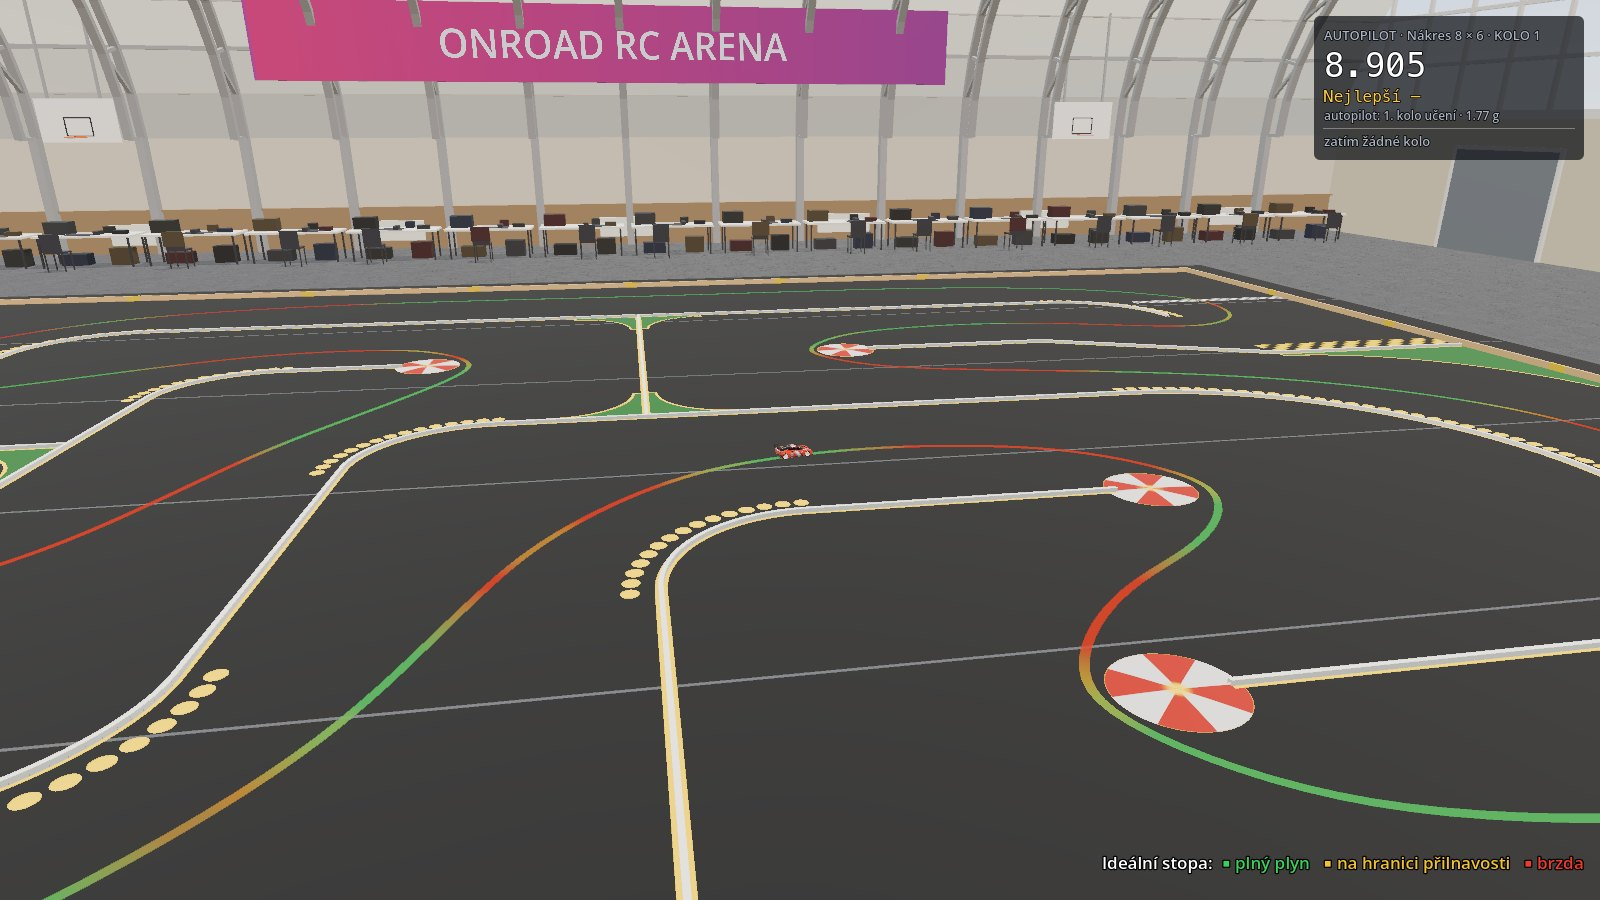
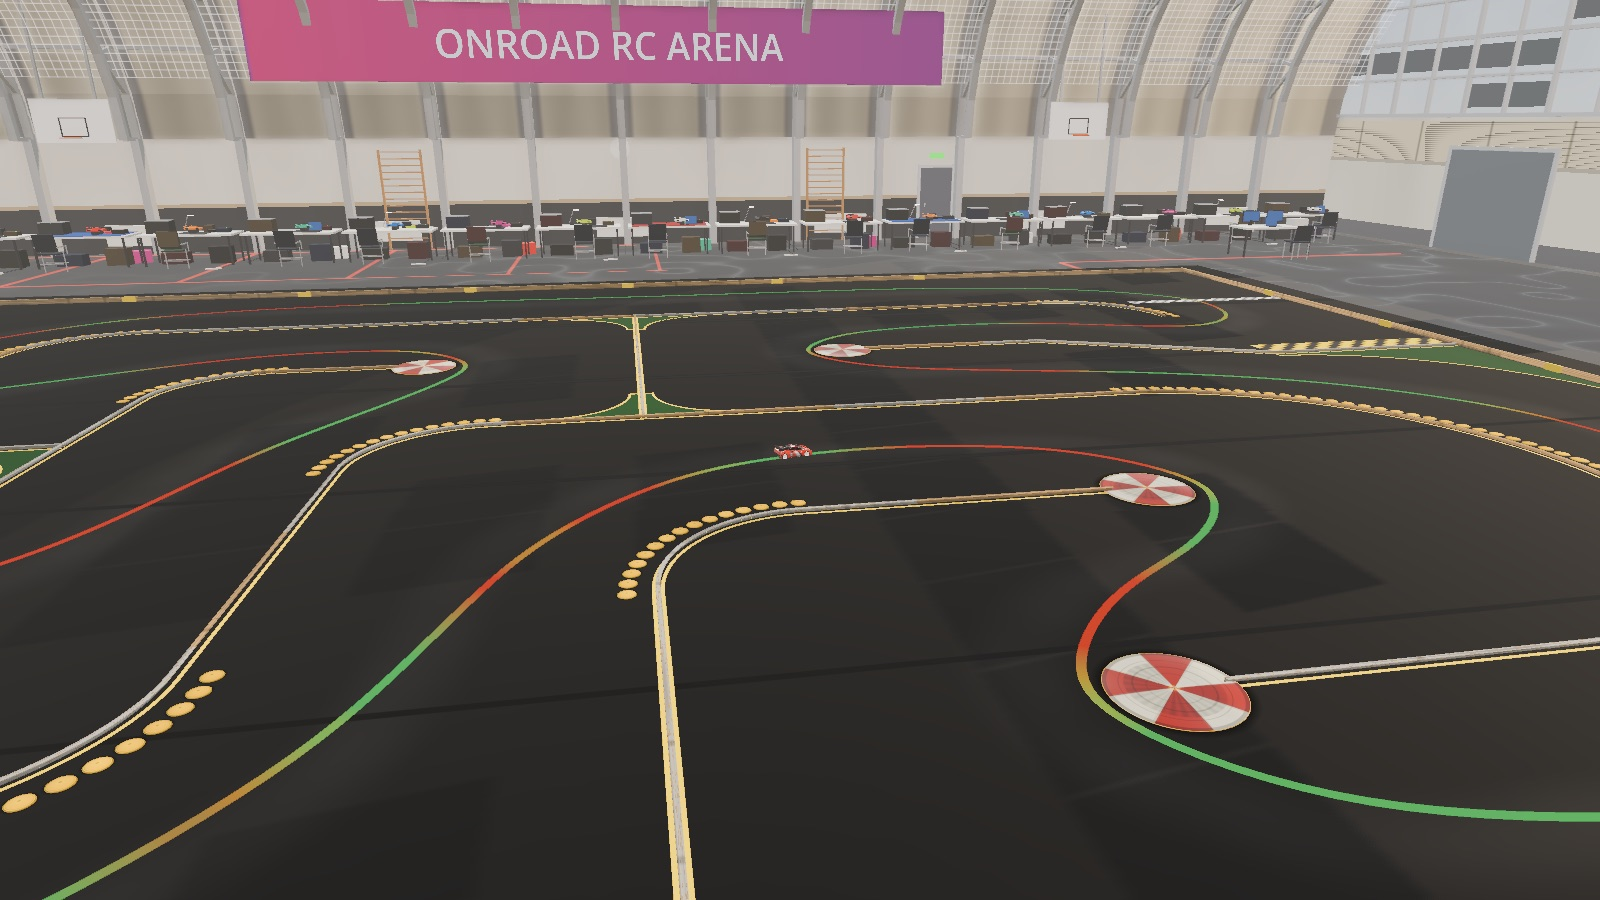
Verze 0.56: nové snímky hal a venkovních tratí, novinky od 0.54
Web odkazuje na verzi 0.56, časy autopilota Rychvald 15.58 a Jedovnice 13.45 s, dvě nové karty
v seznamu funkcí (hala a venkovní areály podle fotek, poklice vysoké 1,5 cm). Obnovené snímky
hlavní, ideální stopa, Nákres shora, Svitavy a Blansko; přibyly snímky haly z pódia, za autem,
terč zblízka, Svitavy z tribuny a Blansko za autem.

diff --git a/index.html b/index.html
@@ -188,15 +188,15 @@ footer .wrap { display: flex; flex-wrap: wrap; gap: 8px 24px; justify-content: s
           <a class="btn-line" id="download-win" href="https://github.com/ibb-jile/onroad-rc-simulator/releases/latest/download/Onroad-RC-Simulator-Windows.zip"><span lang="cs">Windows (experimentální)</span><span lang="en">Windows (experimental)</span></a>
           <a href="#install"><span lang="cs">Jak nainstalovat</span><span lang="en">How to install</span></a>
         </div>
-        <p class="facts"><span lang="cs">Verze 0.54 · macOS 13 a novější · Mac s čipem Apple (M1 a novější) · zip 69 MB</span><span lang="en">Version 0.54 · macOS 13 or later · Mac with Apple silicon (M1 or later) · 69 MB zip</span></p>
+        <p class="facts"><span lang="cs">Verze 0.56 · macOS 13 a novější · Mac s čipem Apple (M1 a novější) · zip 69 MB</span><span lang="en">Version 0.56 · macOS 13 or later · Mac with Apple silicon (M1 or later) · 69 MB zip</span></p>
         <p class="facts"><span lang="cs">Windows 10 a 11 (64bit) · první sestavení, na skutečném PC zatím nevyzkoušené · zip 52 MB</span><span lang="en">Windows 10 and 11 (64-bit) · first build, not yet tried on a real PC · 52 MB zip</span></p>
       </div>
       <aside class="board" aria-label="Lap times">
         <h3><span lang="cs">Autopilot · nejlepší kolo</span><span lang="en">Autopilot · best lap</span></h3>
         <table>
           <tr><td><span lang="cs">Nákres 8 × 6</span><span lang="en">Sketch 8 × 6</span></td><td class="t">13.83<small>s</small></td></tr>
-          <tr><td>Rychvald</td><td class="t">15.59<small>s</small></td></tr>
-          <tr><td>Jedovnice</td><td class="t">13.53<small>s</small></td></tr>
+          <tr><td>Rychvald</td><td class="t">15.58<small>s</small></td></tr>
+          <tr><td>Jedovnice</td><td class="t">13.45<small>s</small></td></tr>
           <tr><td><span lang="cs">Svitavy (venkovní)</span><span lang="en">Svitavy (outdoor)</span></td><td class="t">17.99<small>s</small></td></tr>
           <tr><td><span lang="cs">Blansko (venkovní)</span><span lang="en">Blansko (outdoor)</span></td><td class="t">12.33<small>s</small></td></tr>
         </table>
@@ -242,6 +242,14 @@ footer .wrap { display: flex; flex-wrap: wrap; gap: 8px 24px; justify-content: s
           <p><span lang="cs">Čtyři kobercové tratě <span class="unit">26.4 × 19.8 m</span> s dělicími pásy, poklicemi a terči: Nákres 8 × 6, Jedovnice a Rychvald ve dvou podobách, s mantinely nebo s nízkými pásy, které jdou přejet. Časomíra měří kola na milisekundy a kolo se zkrácenou tratí nepočítá. K tomu dvě venkovní asfaltové dráhy s tribunou řidičů: Svitavy <span class="unit">46 × 62 m</span> a Blansko <span class="unit">57 × 23 m</span>. Na Svitavách je vybraná trasa vytyčená řadami puklic přes nepoužívané pruhy, takže je z tribuny i za autem jasné, kudy se jede.</span><span lang="en">Four carpet tracks <span class="unit">26.4 × 19.8 m</span> with dividers, dots and apex markers: Sketch 8 × 6, Jedovnice and Rychvald in two versions, with barriers or with low strips you can drive over. Lap timing to the millisecond, and a lap with a cut track does not count. Plus two outdoor asphalt tracks with a driver stand: Svitavy <span class="unit">46 × 62 m</span> and Blansko <span class="unit">57 × 23 m</span>. At Svitavy the chosen route is marked out by rows of dots across the unused lanes, so it is clear where to drive both from the driver stand and from behind the car.</span></p>
         </div>
         <div>
+          <h3><span lang="cs">Hala podle fotek</span><span lang="en">A hall from photos</span></h3>
+          <p><span lang="cs">Černý koberec se spoji z lesklé pásky, slunce prosvítá proskleným čelem haly, dřevěná tribuna řidičů a depo se stoly a bednami. Terče a poklice jsou plastické, poklice vysoké 1,5 cm; vidět jsou i zblízka.</span><span lang="en">Black carpet with glossy tape seams, the sun shining through the glazed end wall of the hall, a wooden driver stand and a pit area with tables and boxes. Apex markers and dots are three-dimensional, the dots 1.5 cm high; they hold up even close to the camera.</span></p>
+        </div>
+        <div>
+          <h3><span lang="cs">Venkovní areály podle fotek</span><span lang="en">Outdoor venues from photos</span></h3>
+          <p><span lang="cs">Okolí Svitav a Blanska podle fotek skutečných areálů: stromy z listových karet, asfalt se zrnem a záplatami, ošlapaný nátěr, tráva, plot, stožáry, zázemí závodníků, tribuny a kopce na obzoru.</span><span lang="en">The surroundings of Svitavy and Blansko follow how the real venues look in photos: trees built from leaf cards, grainy asphalt with patches, a worn paint coat, grass, fences, floodlight masts, the racers' pit area, the stands and hills on the horizon.</span></p>
+        </div>
+        <div>
           <h3><span lang="cs">Trénink</span><span lang="en">Practice tools</span></h3>
           <p><span lang="cs">Duch tvého nejlepšího kola, ideální stopa obarvená podle plynu a brzdy, autopilot s tvým setupem a soupeř, který se učí hranici přilnavosti. Traťový komisař tě po nehodě vrátí na trať. Soupeřů může jet až 9 najednou, každý se silou 1–10 (tempo od 75 do 100 % naučeného autopilota); sílu nastavíš průměrem a rozptylem, soupeři se předjíždějí a vnímají všechna auta.</span><span lang="en">A ghost of your best lap, a racing line colored by throttle and brake, an autopilot with your setup and an opponent that learns the grip limit. A track marshal puts you back on track after a crash. Up to 9 opponents can race at once, each with a strength of 1–10 (pace from 75 to 100 % of the learned autopilot); you set the strength by an average and a spread, and the opponents overtake each other and see all the cars.</span></p>
         </div>
@@ -262,12 +270,28 @@ footer .wrap { display: flex; flex-wrap: wrap; gap: 8px 24px; justify-content: s
           <figcaption><span lang="cs">Široký pohled z pódia řidičů: autopilot jede po ideální stopě mezi pásy, poklicemi a terči.</span><span lang="en">A wide view from the driver stand: the autopilot follows the racing line between dividers, dots and apex markers.</span></figcaption>
         </figure>
         <figure>
+          <img src="img/hall-stand.jpg" width="1600" height="900" loading="lazy" alt="Wide view from the driver stand over the black carpet track in a sports hall with the glazed end wall and the pit area">
+          <figcaption><span lang="cs">Hala z pódia řidičů: černý koberec, prosklené čelo, depo se stoly a plastické terče.</span><span lang="en">The hall from the driver stand: black carpet, the glazed end wall, the pit area with tables and three-dimensional apex markers.</span></figcaption>
+        </figure>
+        <figure>
+          <img src="img/hall-chase.jpg" width="1600" height="900" loading="lazy" alt="Red touring car seen from behind on the black carpet in the hall, with the dots along a divider and the wooden stand on the right">
+          <figcaption><span lang="cs">Za autem v hale: poklice podél dělicího pásu, dřevěná tribuna a klenutá střecha.</span><span lang="en">Behind the car in the hall: dots along a divider, the wooden stand and the vaulted roof.</span></figcaption>
+        </figure>
+        <figure>
+          <img src="img/hall-cone.jpg" width="1600" height="900" loading="lazy" alt="Close-up of a red-and-white apex marker with a divider and a yellow line on black carpet in the hall">
+          <figcaption><span lang="cs">Terč zblízka: plastický terč s dělicím pásem a žlutou linkou.</span><span lang="en">An apex marker up close: a three-dimensional marker with a divider and a yellow line.</span></figcaption>
+        </figure>
+        <figure>
           <img src="img/track-top.jpg" width="1228" height="900" loading="lazy" alt="Top view of the Sketch 8 × 6 carpet track with dividers, dots and apex markers">
           <figcaption><span lang="cs">Trať Nákres 8 × 6 shora: dělicí pásy, poklice a terče.</span><span lang="en">The Sketch 8 × 6 track from above: dividers, dots and apex markers.</span></figcaption>
         </figure>
         <figure>
           <img src="img/svitavy-chase.jpg" width="1600" height="900" loading="lazy" alt="Red touring car on the outdoor asphalt track Svitavy with a row of yellow dots marking the route, green painted areas and trees around">
           <figcaption><span lang="cs">Venkovní dráha Svitavy: trasa vytyčená řadami žlutých puklic, natřené plochy mimo trať a stromy kolem.</span><span lang="en">The outdoor track Svitavy: the route marked out by rows of yellow dots, painted areas off the track and trees around.</span></figcaption>
+        </figure>
+        <figure>
+          <img src="img/svitavy-stand.jpg" width="1600" height="900" loading="lazy" alt="View from the driver stand at Svitavy over the green painted areas and the asphalt track with trees, floodlight mast and parked vehicles behind the fence">
+          <figcaption><span lang="cs">Svitavy z tribuny: asfalt, zelený nátěr, plot, stožár a zázemí závodníků za mantinelem.</span><span lang="en">Svitavy from the driver stand: asphalt, green paint, the fence, a floodlight mast and the racers' vehicles behind the barrier.</span></figcaption>
         </figure>
         <figure>
           <img src="img/svitavy-top.jpg" width="1600" height="900" loading="lazy" alt="Top view of the outdoor track Svitavy with the finish line, the starting grid and dotted routes marked by yellow dots">
@@ -280,6 +304,10 @@ footer .wrap { display: flex; flex-wrap: wrap; gap: 8px 24px; justify-content: s
         <figure>
           <img src="img/blansko-stand.jpg" width="1600" height="900" loading="lazy" alt="View from the covered driver platform on the upper floor in Blansko over the track, the starting grid and the long straight">
           <figcaption><span lang="cs">Blansko z tribuny: řidiči stojí na kryté plošině v patře, 4,5 m nad dráhou.</span><span lang="en">Blansko from the driver stand: drivers stand on a covered platform on the upper floor, 4.5 m above the track.</span></figcaption>
+        </figure>
+        <figure>
+          <img src="img/blansko-chase.jpg" width="1600" height="900" loading="lazy" alt="Red touring car seen from behind on the asphalt track Blansko with blue painted areas, grass, a fence and trees">
+          <figcaption><span lang="cs">Blansko za autem: modrý nátěr, trávu u mantinelu, plot a les za areálem.</span><span lang="en">Blansko behind the car: blue paint, grass by the barrier, a fence and woods behind the venue.</span></figcaption>
         </figure>
         <figure>
           <img src="img/blansko-tribuna.jpg" width="1600" height="900" loading="lazy" alt="Two-storey driver stand building in Blansko with a covered upper platform and an outside staircase">

diff --git a/src/page.html b/src/page.html
@@ -182,15 +182,15 @@ footer .wrap { display: flex; flex-wrap: wrap; gap: 8px 24px; justify-content: s
           <a class="btn-line" id="download-win" href="https://github.com/ibb-jile/onroad-rc-simulator/releases/latest/download/Onroad-RC-Simulator-Windows.zip"><span lang="cs">Windows (experimentální)</span><span lang="en">Windows (experimental)</span></a>
           <a href="#install"><span lang="cs">Jak nainstalovat</span><span lang="en">How to install</span></a>
         </div>
-        <p class="facts"><span lang="cs">Verze 0.54 · macOS 13 a novější · Mac s čipem Apple (M1 a novější) · zip 69 MB</span><span lang="en">Version 0.54 · macOS 13 or later · Mac with Apple silicon (M1 or later) · 69 MB zip</span></p>
+        <p class="facts"><span lang="cs">Verze 0.56 · macOS 13 a novější · Mac s čipem Apple (M1 a novější) · zip 69 MB</span><span lang="en">Version 0.56 · macOS 13 or later · Mac with Apple silicon (M1 or later) · 69 MB zip</span></p>
         <p class="facts"><span lang="cs">Windows 10 a 11 (64bit) · první sestavení, na skutečném PC zatím nevyzkoušené · zip 52 MB</span><span lang="en">Windows 10 and 11 (64-bit) · first build, not yet tried on a real PC · 52 MB zip</span></p>
       </div>
       <aside class="board" aria-label="Lap times">
         <h3><span lang="cs">Autopilot · nejlepší kolo</span><span lang="en">Autopilot · best lap</span></h3>
         <table>
           <tr><td><span lang="cs">Nákres 8 × 6</span><span lang="en">Sketch 8 × 6</span></td><td class="t">13.83<small>s</small></td></tr>
-          <tr><td>Rychvald</td><td class="t">15.59<small>s</small></td></tr>
-          <tr><td>Jedovnice</td><td class="t">13.53<small>s</small></td></tr>
+          <tr><td>Rychvald</td><td class="t">15.58<small>s</small></td></tr>
+          <tr><td>Jedovnice</td><td class="t">13.45<small>s</small></td></tr>
           <tr><td><span lang="cs">Svitavy (venkovní)</span><span lang="en">Svitavy (outdoor)</span></td><td class="t">17.99<small>s</small></td></tr>
           <tr><td><span lang="cs">Blansko (venkovní)</span><span lang="en">Blansko (outdoor)</span></td><td class="t">12.33<small>s</small></td></tr>
         </table>
@@ -236,6 +236,14 @@ footer .wrap { display: flex; flex-wrap: wrap; gap: 8px 24px; justify-content: s
           <p><span lang="cs">Čtyři kobercové tratě <span class="unit">26.4 × 19.8 m</span> s dělicími pásy, poklicemi a terči: Nákres 8 × 6, Jedovnice a Rychvald ve dvou podobách, s mantinely nebo s nízkými pásy, které jdou přejet. Časomíra měří kola na milisekundy a kolo se zkrácenou tratí nepočítá. K tomu dvě venkovní asfaltové dráhy s tribunou řidičů: Svitavy <span class="unit">46 × 62 m</span> a Blansko <span class="unit">57 × 23 m</span>. Na Svitavách je vybraná trasa vytyčená řadami puklic přes nepoužívané pruhy, takže je z tribuny i za autem jasné, kudy se jede.</span><span lang="en">Four carpet tracks <span class="unit">26.4 × 19.8 m</span> with dividers, dots and apex markers: Sketch 8 × 6, Jedovnice and Rychvald in two versions, with barriers or with low strips you can drive over. Lap timing to the millisecond, and a lap with a cut track does not count. Plus two outdoor asphalt tracks with a driver stand: Svitavy <span class="unit">46 × 62 m</span> and Blansko <span class="unit">57 × 23 m</span>. At Svitavy the chosen route is marked out by rows of dots across the unused lanes, so it is clear where to drive both from the driver stand and from behind the car.</span></p>
         </div>
         <div>
+          <h3><span lang="cs">Hala podle fotek</span><span lang="en">A hall from photos</span></h3>
+          <p><span lang="cs">Černý koberec se spoji z lesklé pásky, slunce prosvítá proskleným čelem haly, dřevěná tribuna řidičů a depo se stoly a bednami. Terče a poklice jsou plastické, poklice vysoké 1,5 cm; vidět jsou i zblízka.</span><span lang="en">Black carpet with glossy tape seams, the sun shining through the glazed end wall of the hall, a wooden driver stand and a pit area with tables and boxes. Apex markers and dots are three-dimensional, the dots 1.5 cm high; they hold up even close to the camera.</span></p>
+        </div>
+        <div>
+          <h3><span lang="cs">Venkovní areály podle fotek</span><span lang="en">Outdoor venues from photos</span></h3>
+          <p><span lang="cs">Okolí Svitav a Blanska podle fotek skutečných areálů: stromy z listových karet, asfalt se zrnem a záplatami, ošlapaný nátěr, tráva, plot, stožáry, zázemí závodníků, tribuny a kopce na obzoru.</span><span lang="en">The surroundings of Svitavy and Blansko follow how the real venues look in photos: trees built from leaf cards, grainy asphalt with patches, a worn paint coat, grass, fences, floodlight masts, the racers' pit area, the stands and hills on the horizon.</span></p>
+        </div>
+        <div>
           <h3><span lang="cs">Trénink</span><span lang="en">Practice tools</span></h3>
           <p><span lang="cs">Duch tvého nejlepšího kola, ideální stopa obarvená podle plynu a brzdy, autopilot s tvým setupem a soupeř, který se učí hranici přilnavosti. Traťový komisař tě po nehodě vrátí na trať. Soupeřů může jet až 9 najednou, každý se silou 1–10 (tempo od 75 do 100 % naučeného autopilota); sílu nastavíš průměrem a rozptylem, soupeři se předjíždějí a vnímají všechna auta.</span><span lang="en">A ghost of your best lap, a racing line colored by throttle and brake, an autopilot with your setup and an opponent that learns the grip limit. A track marshal puts you back on track after a crash. Up to 9 opponents can race at once, each with a strength of 1–10 (pace from 75 to 100 % of the learned autopilot); you set the strength by an average and a spread, and the opponents overtake each other and see all the cars.</span></p>
         </div>
@@ -256,12 +264,28 @@ footer .wrap { display: flex; flex-wrap: wrap; gap: 8px 24px; justify-content: s
           <figcaption><span lang="cs">Široký pohled z pódia řidičů: autopilot jede po ideální stopě mezi pásy, poklicemi a terči.</span><span lang="en">A wide view from the driver stand: the autopilot follows the racing line between dividers, dots and apex markers.</span></figcaption>
         </figure>
         <figure>
+          <img src="img/hall-stand.jpg" width="1600" height="900" loading="lazy" alt="Wide view from the driver stand over the black carpet track in a sports hall with the glazed end wall and the pit area">
+          <figcaption><span lang="cs">Hala z pódia řidičů: černý koberec, prosklené čelo, depo se stoly a plastické terče.</span><span lang="en">The hall from the driver stand: black carpet, the glazed end wall, the pit area with tables and three-dimensional apex markers.</span></figcaption>
+        </figure>
+        <figure>
+          <img src="img/hall-chase.jpg" width="1600" height="900" loading="lazy" alt="Red touring car seen from behind on the black carpet in the hall, with the dots along a divider and the wooden stand on the right">
+          <figcaption><span lang="cs">Za autem v hale: poklice podél dělicího pásu, dřevěná tribuna a klenutá střecha.</span><span lang="en">Behind the car in the hall: dots along a divider, the wooden stand and the vaulted roof.</span></figcaption>
+        </figure>
+        <figure>
+          <img src="img/hall-cone.jpg" width="1600" height="900" loading="lazy" alt="Close-up of a red-and-white apex marker with a divider and a yellow line on black carpet in the hall">
+          <figcaption><span lang="cs">Terč zblízka: plastický terč s dělicím pásem a žlutou linkou.</span><span lang="en">An apex marker up close: a three-dimensional marker with a divider and a yellow line.</span></figcaption>
+        </figure>
+        <figure>
           <img src="img/track-top.jpg" width="1228" height="900" loading="lazy" alt="Top view of the Sketch 8 × 6 carpet track with dividers, dots and apex markers">
           <figcaption><span lang="cs">Trať Nákres 8 × 6 shora: dělicí pásy, poklice a terče.</span><span lang="en">The Sketch 8 × 6 track from above: dividers, dots and apex markers.</span></figcaption>
         </figure>
         <figure>
           <img src="img/svitavy-chase.jpg" width="1600" height="900" loading="lazy" alt="Red touring car on the outdoor asphalt track Svitavy with a row of yellow dots marking the route, green painted areas and trees around">
           <figcaption><span lang="cs">Venkovní dráha Svitavy: trasa vytyčená řadami žlutých puklic, natřené plochy mimo trať a stromy kolem.</span><span lang="en">The outdoor track Svitavy: the route marked out by rows of yellow dots, painted areas off the track and trees around.</span></figcaption>
+        </figure>
+        <figure>
+          <img src="img/svitavy-stand.jpg" width="1600" height="900" loading="lazy" alt="View from the driver stand at Svitavy over the green painted areas and the asphalt track with trees, floodlight mast and parked vehicles behind the fence">
+          <figcaption><span lang="cs">Svitavy z tribuny: asfalt, zelený nátěr, plot, stožár a zázemí závodníků za mantinelem.</span><span lang="en">Svitavy from the driver stand: asphalt, green paint, the fence, a floodlight mast and the racers' vehicles behind the barrier.</span></figcaption>
         </figure>
         <figure>
           <img src="img/svitavy-top.jpg" width="1600" height="900" loading="lazy" alt="Top view of the outdoor track Svitavy with the finish line, the starting grid and dotted routes marked by yellow dots">
@@ -274,6 +298,10 @@ footer .wrap { display: flex; flex-wrap: wrap; gap: 8px 24px; justify-content: s
         <figure>
           <img src="img/blansko-stand.jpg" width="1600" height="900" loading="lazy" alt="View from the covered driver platform on the upper floor in Blansko over the track, the starting grid and the long straight">
           <figcaption><span lang="cs">Blansko z tribuny: řidiči stojí na kryté plošině v patře, 4,5 m nad dráhou.</span><span lang="en">Blansko from the driver stand: drivers stand on a covered platform on the upper floor, 4.5 m above the track.</span></figcaption>
+        </figure>
+        <figure>
+          <img src="img/blansko-chase.jpg" width="1600" height="900" loading="lazy" alt="Red touring car seen from behind on the asphalt track Blansko with blue painted areas, grass, a fence and trees">
+          <figcaption><span lang="cs">Blansko za autem: modrý nátěr, trávu u mantinelu, plot a les za areálem.</span><span lang="en">Blansko behind the car: blue paint, grass by the barrier, a fence and woods behind the venue.</span></figcaption>
         </figure>
         <figure>
           <img src="img/blansko-tribuna.jpg" width="1600" height="900" loading="lazy" alt="Two-storey driver stand building in Blansko with a covered upper platform and an outside staircase">
